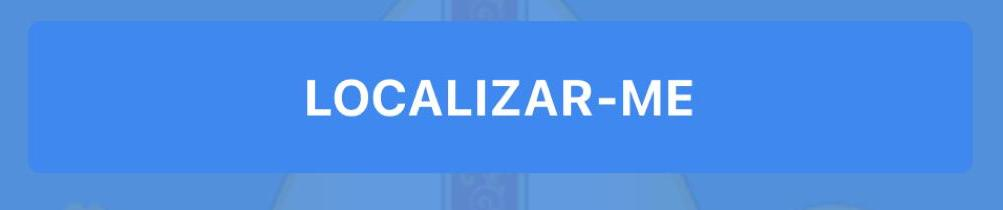
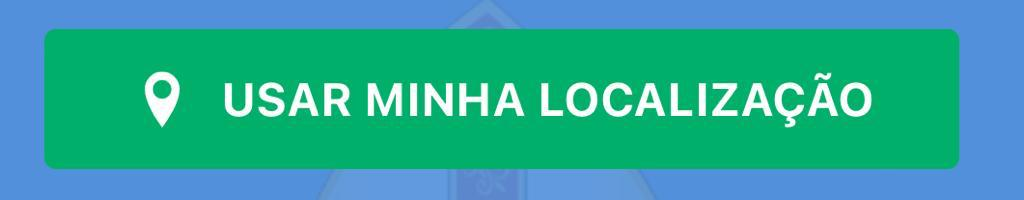
feat: initial page

diff --git a/src/pages/home.js b/src/pages/home.js
@@ -4,6 +4,7 @@ import { useEffect, useState } from 'react'
 import { Image, Pressable, StyleSheet, Text, View, Platform } from 'react-native'
 import citys from '../assets/data/citys.json'
 import DefaultLayout from '../layouts/default'
+import Icon from 'react-native-vector-icons/Entypo'
 
 export default function MainPanel ({ navigation: { navigate } }) {
   const [selectedCity, setSelectedCity] = useState()
@@ -28,12 +29,14 @@ export default function MainPanel ({ navigation: { navigate } }) {
           <Text style={styles.subtitle}>Você pode achar todas as paróquias da Baixada Santista</Text>
         </View>
         <View style={styles.localizationView}>
-          <Pressable style={styles.button} onPress={() => navigate('Mapa', { cityParam: null })}>
-            <Text style={{ ...styles.text, textTransform: 'uppercase' }}>localizar-me</Text>
+          <Pressable style={{ ...styles.button, backgroundColor: '#00b06a' }} onPress={() => navigate('Mapa', { cityParam: null })}>
+            <Icon name='location-pin' size={24} color='#FFF' />
+            <Text style={{ ...styles.text, textTransform: 'uppercase' }}>usar minha localização</Text>
           </Pressable>
           <View>
             <Image source={require('../assets/images/splitter.png')} />
           </View>
+          <Text style={styles.paragraph}>Selecione uma cidade</Text>
           <Picker
             style={Platform.OS === 'ios' ? styles.selectIOS : styles.select}
             selectedValue={selectedCity}
@@ -47,11 +50,13 @@ export default function MainPanel ({ navigation: { navigate } }) {
             })}
           </Picker>
           <Pressable style={{ ...styles.button, alignSelf: 'center' }} onPress={() => navigate('Mapa', { cityParam: selectedCity === '' ? null : selectedCity })}>
-            <Text style={styles.text}>Enviar</Text>
+            <Icon name='magnifying-glass' size={20} color='#FFF' />
+            <Text style={styles.text}>Buscar paróquias</Text>
           </Pressable>
         </View>
         <Pressable style={styles.hint} onPress={() => navigate('Tutorial')}>
-          <Text style={styles.text}>Dúvidas</Text>
+          <Icon name='help-with-circle' size={20} color='rgba(255, 255, 255, 0.5)' />
+          <Text style={{ ...styles.text, color: 'rgba(255, 255, 255, 0.5)' }}>Como utilizar o aplicativo?</Text>
         </Pressable>
       </View>
     </DefaultLayout>
@@ -79,7 +84,20 @@ const styles = StyleSheet.create({
     paddingHorizontal: 32,
     borderRadius: 4,
     elevation: 3,
-    backgroundColor: '#3F88EF'
+    backgroundColor: '#3F88EF',
+    flexDirection: 'row',
+    gap: 8
+  },
+  paragraph: {
+    textAlign: 'center',
+    color: '#FFF',
+    fontFamily: 'Montserrat',
+    fontSize: 16,
+    fontStyle: 'normal',
+    fontWeight: '400',
+    lineHeight: 30,
+    letterSpacing: 0.84,
+    paddingBottom: 8
   },
   title: {
     paddingHorizontal: 16,
@@ -134,8 +152,9 @@ const styles = StyleSheet.create({
     paddingVertical: 6,
     paddingHorizontal: 12,
     borderRadius: 20,
-    elevation: 3,
-    backgroundColor: '#3F88EF'
+    backgroundColor: 'rgba(200, 200, 200, 0.15)',
+    flexDirection: 'row',
+    gap: 8
   },
   select: {
     color: '#000',

diff --git a/src/pages/initial.js b/src/pages/initial.js
@@ -1,0 +1,48 @@
+import { Pressable, StyleSheet, Text, View } from 'react-native'
+import DefaultLayout from '../layouts/default'
+
+export default function MainPanel ({ navigation: { navigate } }) {
+  return (
+    <DefaultLayout>
+      <View style={styles.container}>
+        <Text style={styles.title}>DioceseMap</Text>
+        <Text style={styles.subtitle}>Encontre paróquias próximas de você!</Text>
+        <Pressable style={styles.button} onPress={() => navigate('Home')}>
+          <Text style={{ color: '#ffffff' }}>Começar</Text>
+        </Pressable>
+      </View>
+    </DefaultLayout>
+  )
+}
+
+const styles = StyleSheet.create({
+  container: {
+    flex: 1,
+    justifyContent: 'center',
+    alignItems: 'center'
+  },
+  title: {
+    fontFamily: 'Montserrat',
+    fontSize: 48,
+    fontWeight: 'bold',
+    color: '#fff',
+    letterSpacing: 1.74
+  },
+  subtitle: {
+    fontFamily: 'Montserrat',
+    fontSize: 16,
+    fontWeight: '400',
+    color: '#FDFEEE',
+    letterSpacing: 0.88,
+    textAlign: 'center'
+  },
+  button: {
+    backgroundColor: '#3F88EF',
+    width: 200,
+    height: 50,
+    borderRadius: 25,
+    justifyContent: 'center',
+    alignItems: 'center',
+    marginTop: 20
+  }
+})

diff --git a/src/pages/index.js b/src/pages/index.js
@@ -2,6 +2,7 @@ import { createStackNavigator } from '@react-navigation/stack'
 
 import { Image, Pressable, StyleSheet, View } from 'react-native'
 import AntIcon from 'react-native-vector-icons/AntDesign'
+import InitialPage from './initial'
 import HomePage from './home'
 import MapPage from './map'
 import TutorialPage from './tutorial'
@@ -17,7 +18,8 @@ export function MainStack () {
   }
 
   return (
-    <Stack.Navigator initialRouteName='Home'>
+    <Stack.Navigator initialRouteName='Initial'>
+      <Stack.Screen name="Initial" component={InitialPage} options={{ ...headerOptions, headerTitleAlign: 'center' }} />
       <Stack.Screen name="Home" component={HomePage} options={{ ...headerOptions, headerTitleAlign: 'center', headerLeft: HomeButoon }} />
       <Stack.Screen name="Tutorial" component={TutorialPage} options={{ ...headerOptions, headerTitle: 'Como usar o aplicativo', headerLeft: BackButoon }} />
       <Stack.Screen name="Mapa" component={MapPage} options={{ headerBackTitle: 'Voltar' }} />
